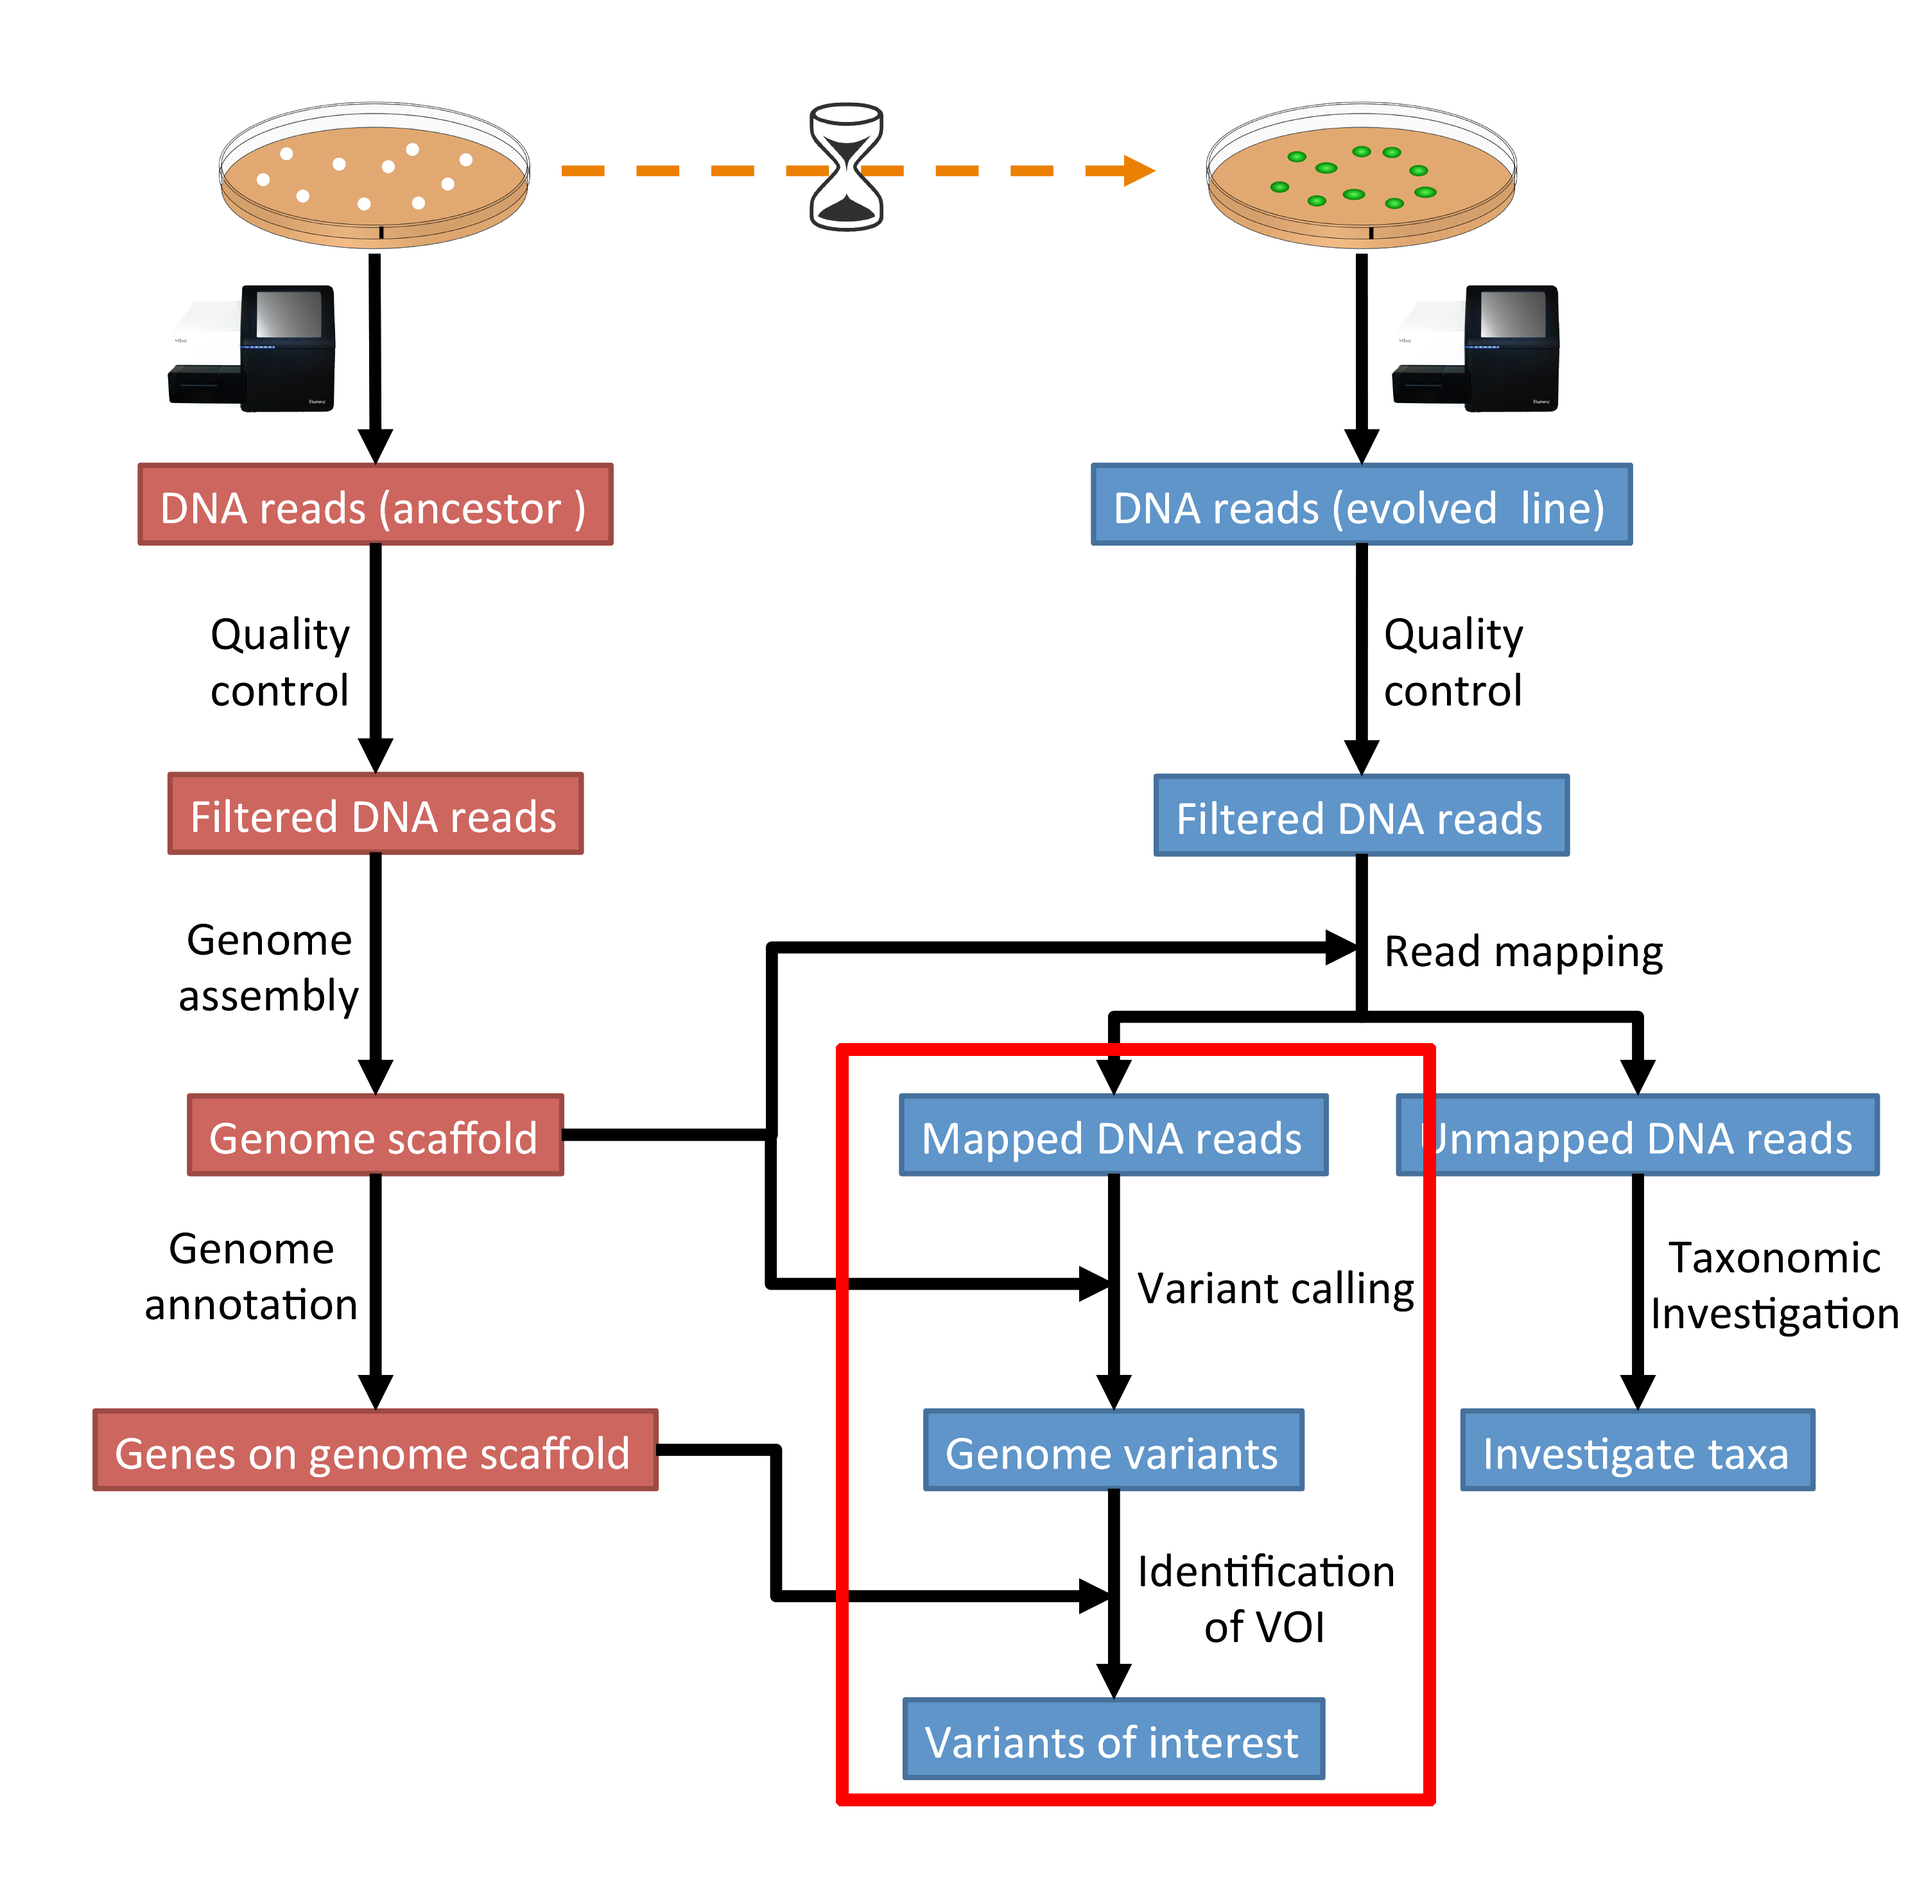
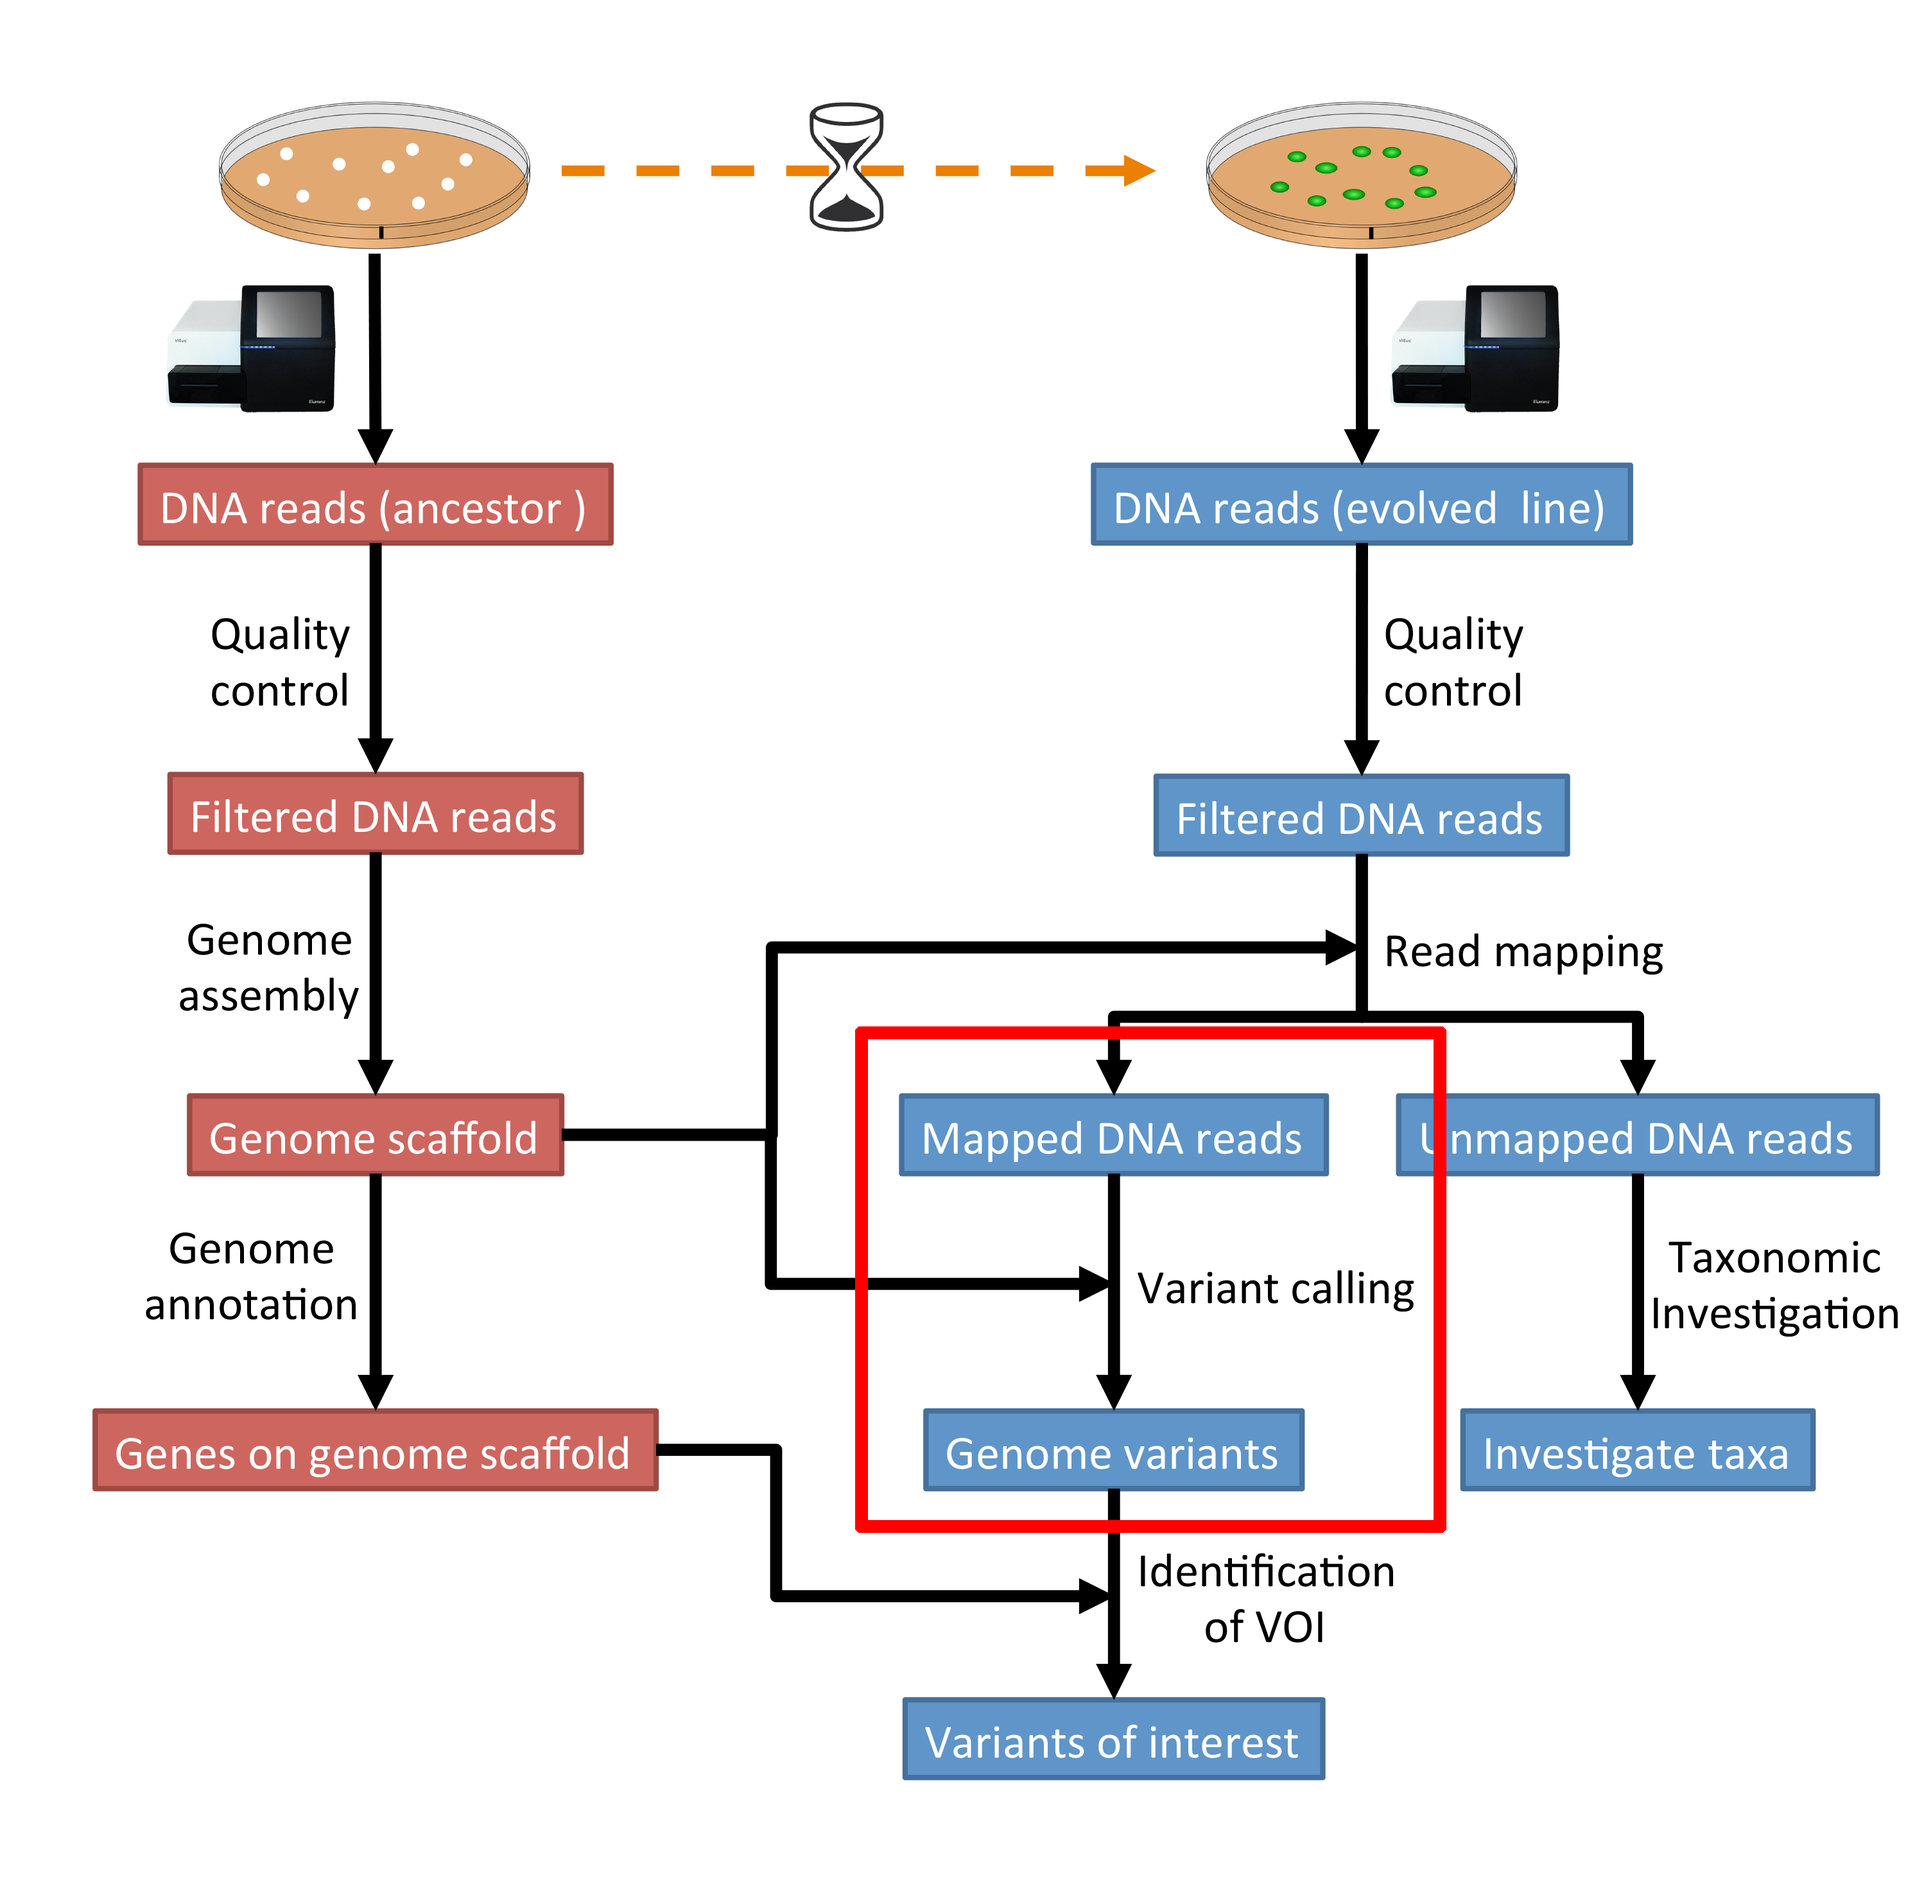
Rearanged sections, added ngs-voi

Changed region(s): [[0.4344, 0.5303, 0.7758, 0.9671], [0.7137, 0.156, 0.7758, 0.2184], [0.0931, 0.156, 0.1241, 0.2184]]

diff --git a/ngs-voi/index.rst b/ngs-voi/index.rst
@@ -1,0 +1,106 @@
+NGS - Identification of variants of interest
+============================================
+
+Preface
+-------
+
+In this section we will use our genome annotation of the reference and our genome variants in the evolved line to find variants that are interesting in terms of the observed biology.
+
+.. NOTE::
+
+   You will encounter some **To-do** sections at times. Write the solutions and answers into a text-file.   
+
+
+Overview
+--------
+
+The part of the workflow we will work on in this section can be viewed in :numref:`fig-workflow-voi`.
+
+.. _fig-workflow-voi:
+.. figure:: images/workflow.png
+
+   The part of the workflow we will work on in this section marked in red.
+   
+     
+Learning outcomes
+-----------------
+
+After studying this section of the tutorial you should be able to:
+
+#. Identify variants of interests.
+#. Understand how the variants might affect the observed biology.
+
+
+Before we start
+---------------
+
+Lets see how our directory structure looks so far:
+
+.. code:: bash
+
+          cd ~/analysis
+          ls -1F
+
+.. code:: bash
+
+          annotation/
+          assembly/
+          data/
+          kraken/
+          mappings/
+          SolexaQA/
+          SolexaQA++
+          trimmed/
+          trimmed-fastqc/
+          trimmed-solexaqa/
+          variants/
+
+   
+Installing necessary software
+-----------------------------
+  
+Tools we are going to use in this section and how to intall them if you not have done it yet.
+
+.. code:: bash
+
+          # activate the env
+          source activate ngs
+          
+          # Install these tools into the conda environment
+          # if not already installed
+        
+
+Finding variants of interest (VOI)
+----------------------------------
+
+
+Things to consider when looking for VOI:
+
+- The quality score of the variant call.
+  
+  * Do we call the variant with a higher then normal score?
+    
+- The mapping quality score.
+  
+  * How confident are we that the reads were mapped at the position correctly?
+    
+- The location of the SNP.
+  
+  * SNPs in larger contigs are probably more interesting than in tiny contigs.
+  * Does the SNP overlap a coding region in the genome annotation?
+    
+- The type of SNP.
+
+  * substitutions vs. indels 
+
+    
+Overlap variants with genes
+~~~~~~~~~~~~~~~~~~~~~~~~~~~
+
+.. todo::
+
+   OLIN: Write this section.
+
+   
+Visualise variants on the reference genome
+~~~~~~~~~~~~~~~~~~~~~~~~~~~~~~~~~~~~~~~~~~

diff --git a/ngs-annotation/index.rst b/ngs-annotation/index.rst
@@ -17,6 +17,39 @@ The part of the workflow we will work on in this section can be viewed in :numre
 
    The part of the workflow we will work on in this section marked in red.
 
+
+Learning outcomes
+-----------------
+
+After studying this section of the tutorial you should be able to:
+
+#. Be able to describe the principles of how to annotate a genome.
+
+
+Before we start
+---------------
+
+Lets see how our directory structure looks so far:
+
+.. code:: bash
+
+          cd ~/analysis
+          ls -1F
+
+.. code:: bash
+
+         assembly/
+         data/
+         kraken/
+         mappings/
+         SolexaQA/
+         SolexaQA++
+         trimmed/
+         trimmed-fastqc/
+         trimmed-solexaqa/
+         variants/
+
+   
 Genome annotation
 -----------------
 

diff --git a/ngs-mapping/index.rst b/ngs-mapping/index.rst
@@ -32,7 +32,7 @@ The part of the workflow we will work on in this section can be viewed in :numre
 Learning outcomes
 -----------------
 
-After studying this tutorial you should be able to:
+After studying this section of the tutorial you should be able to:
 
 #. Explain the process of sequence read mapping.
 #. Use bioinformatics tools to map sequencing reads to a reference genome.
@@ -51,7 +51,6 @@ Lets see how our directory structure looks so far:
 
 .. code:: bash
           
-          annotation/
           assembly/
           data/
           SolexaQA/

diff --git a/index.rst b/index.rst
@@ -48,10 +48,11 @@ During this tutorial you will learn to:
    ngs-tools/index
    ngs-qc/index
    ngs-assembly/index
-   ngs-annotation/index
    ngs-mapping/index
    ngs-taxonomic-investigation/index
    ngs-variantcalling/index
+   ngs-annotation/index
+   ngs-voi/index
    general/quickref
    general/code
    general/downloads

diff --git a/ngs-taxonomic-investigation/index.rst b/ngs-taxonomic-investigation/index.rst
@@ -49,7 +49,6 @@ Lets see how our directory structure looks so far:
 
 .. code:: bash
 
-          annotation/
           assembly/
           data/
           mappings/
